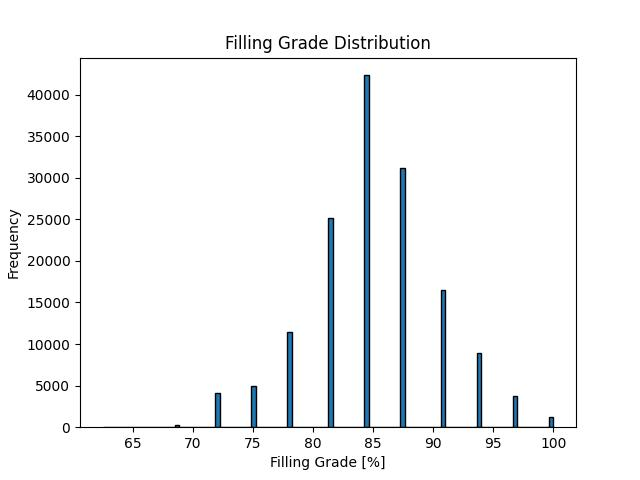
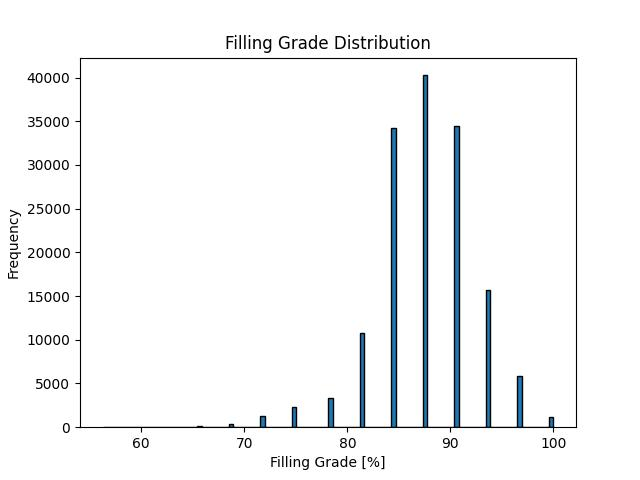
Updated files and data.

diff --git a/dept_11_analysis/data_cleaning.py b/dept_11_analysis/data_cleaning.py
@@ -5,7 +5,7 @@ import matplotlib.pyplot as plt
 
 def feature_value_cleaning(df: pd.DataFrame, threshold: float =30, feature_value_modification: list =[], show_results: bool =False):
     
-    number_of_dropped_data_points, data_completion_perc = drop_not_filled_data(df=df, threshold=threshold)
+
     original_unique_value_counts, num_unique_values = get_unique_value_df_for_features(df=df)
 
     # simple standard modification: replace a value with another one
@@ -18,9 +18,10 @@ def feature_value_cleaning(df: pd.DataFrame, threshold: float =30, feature_value
     modify_clothing(df=df)
     modify_vehicle_features(df=df)
     
-    fill_missing_with_na(df=df)    
-    new_unique_value_counts, new_num_unique_values = get_unique_value_df_for_features(df=df)
-    
+    fill_missing_with_na(df=df)
+    number_of_dropped_data_points, data_completion_perc = drop_not_filled_data(df=df, threshold=threshold)
+       
+    new_unique_value_counts, new_num_unique_values = get_unique_value_df_for_features(df=df) 
 
     if show_results:       
         print(f"Dropped data points because of missing input: {number_of_dropped_data_points}")

diff --git a/DEPT_11_POLICING_REPORT_ANALYSIS.md b/DEPT_11_POLICING_REPORT_ANALYSIS.md
@@ -272,7 +272,7 @@ RP: Replace Placeholder         \
     - Remove NO DATA ENTERED values
     - This influences 68353 values.
 
-### Vehicle related features
+#### Vehicle related features
 - The state is the only feature without missing entries (empty), but includes 99.456 NO DATA ENTERED and 10673 OTHER values.
     - Some other vehicle related features show entries (e.g. "make" with 717 entries)
 - The same applies for the other features, although occupant and model have no NO DATA ENTERED entries, but much more missing entries.
@@ -285,15 +285,12 @@ RP: Replace Placeholder         \
     - The remaining differences are often based on a single entry (in the original unique entry list 90% of the values have less than 10 entries).
     - A further processing is not conducted for this project.
 
+#### Dropping data points
+For dropping data points a threshold of 30% is set. All data points having less than 30% non-NaN values will be dropped.
+This applies to 0 data points. 
 
-### Imputing and dropping
+## Imputing
 
-MISSING: FIRST CHECK A LIST OF UNIQUE VALUES --> NO DATA, 0 etc. have to be replaced with pd.NA.
-
-needed to be done after feature cleaning: 
-The threshold for completed data was set to 30%. Meaning that all data points below 30% completed will be dropped. \
-This applies to 0 data points.
-According to the histogram, the lowest filling grade lies between 65% and 70%, most of the data have around 85% filling.
 
 
 
